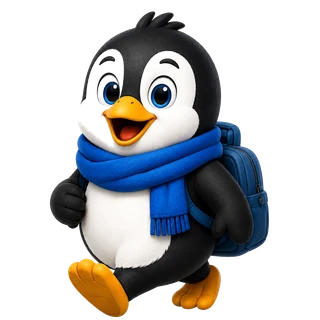
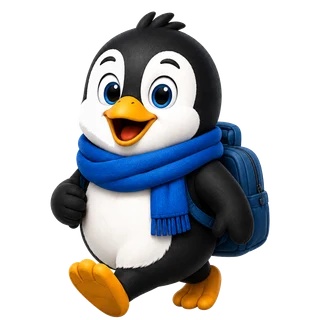
Pingüino explorador: rellenar de blanco el hueco de la cara

diff --git a/index.html b/index.html
@@ -500,7 +500,7 @@
             <path class="ice-body" d="M14 110 L6 170 L34 246 L96 292 L170 286 L222 236 L238 168 L226 110 Z"/><path class="ice-facets" d="M14 110 L70 190 L34 246 M70 190 L96 292 M70 190 L160 170 L222 236 M160 170 L226 110"/>
             <path class="ice-shade" d="M130 18 L160 60 L186 72 L226 110 L118 110 Z"/><path class="ice-mid" d="M64 30 L88 58 L104 50 L130 18 L118 110 L80 110 Z"/><path class="ice-light" d="M14 110 L40 62 L64 30 L80 110 Z"/><path class="ice-edge" d="M14 110 L40 62 L64 30 L88 58 L104 50 L130 18 L160 60 L186 72 L226 110"/>
           </svg>
-          <img class="berg-penguin" src="images/pinguino-explorador.webp?v=2" alt="" width="160" height="160" loading="lazy" decoding="async">
+          <img class="berg-penguin" src="images/pinguino-explorador.webp?v=3" alt="" width="160" height="160" loading="lazy" decoding="async">
           <span class="berg-flag" aria-hidden="true"><span>Motor</span></span>
           <span class="berg-count" aria-hidden="true">11</span>
         </span>
